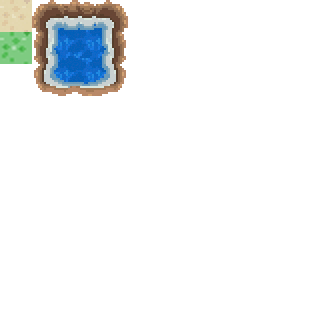
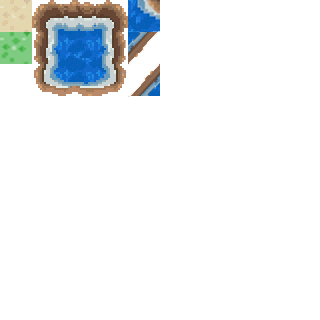
forgot to commit the new map

Changed region(s): [[0.375, 0.0, 0.5, 0.1875], [0.4062, 0.1875, 0.5, 0.3125], [0.1562, 0.0625, 0.3438, 0.0938]]

diff --git a/PixelArena/src/com/xidstudios/pixelarena/tweenaccessors/ActorAccessor.java b/PixelArena/src/com/xidstudios/pixelarena/tweenaccessors/ActorAccessor.java
@@ -1,0 +1,52 @@
+/**
+ * 
+ */
+package com.xidstudios.pixelarena.tweenaccessors;
+
+import aurelienribon.tweenengine.TweenAccessor;
+
+import com.badlogic.gdx.scenes.scene2d.Actor;
+
+/**
+ * @author Dixon D'Cunha
+ */
+public class ActorAccessor implements TweenAccessor<Actor> {
+
+	public static final int ALPHA = 0;
+
+	/**
+	 * 
+	 */
+	public ActorAccessor() {
+		// TODO Auto-generated constructor stub
+	}
+
+	@Override
+	public int getValues(Actor target, int tweenType,
+			float[] returnValues) {
+		switch (tweenType) {
+			case ALPHA:
+				returnValues[0] = target.getColor().a;
+				return 1;
+
+			default:
+				assert false;
+				return -1;
+		}
+
+	}
+
+	@Override
+	public void setValues(Actor target, int tweenType,
+			float[] newValues) {
+		switch (tweenType) {
+			case ALPHA:
+				target.setColor(target.getColor().r,
+						target.getColor().g, target.getColor().b,
+						newValues[0]);
+			default:
+				assert false;
+		}
+	}
+
+}
